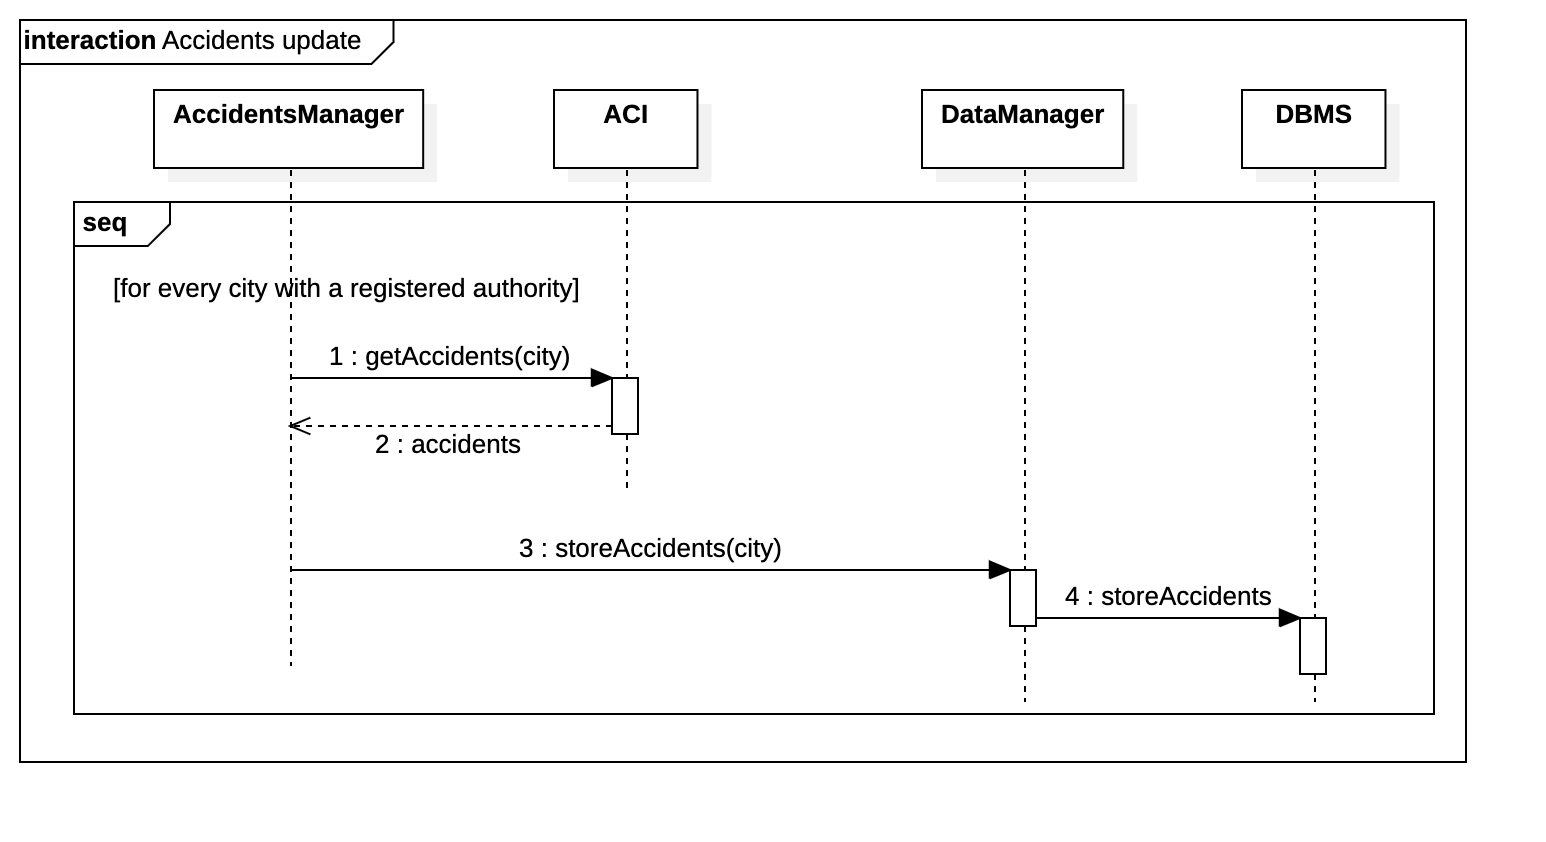
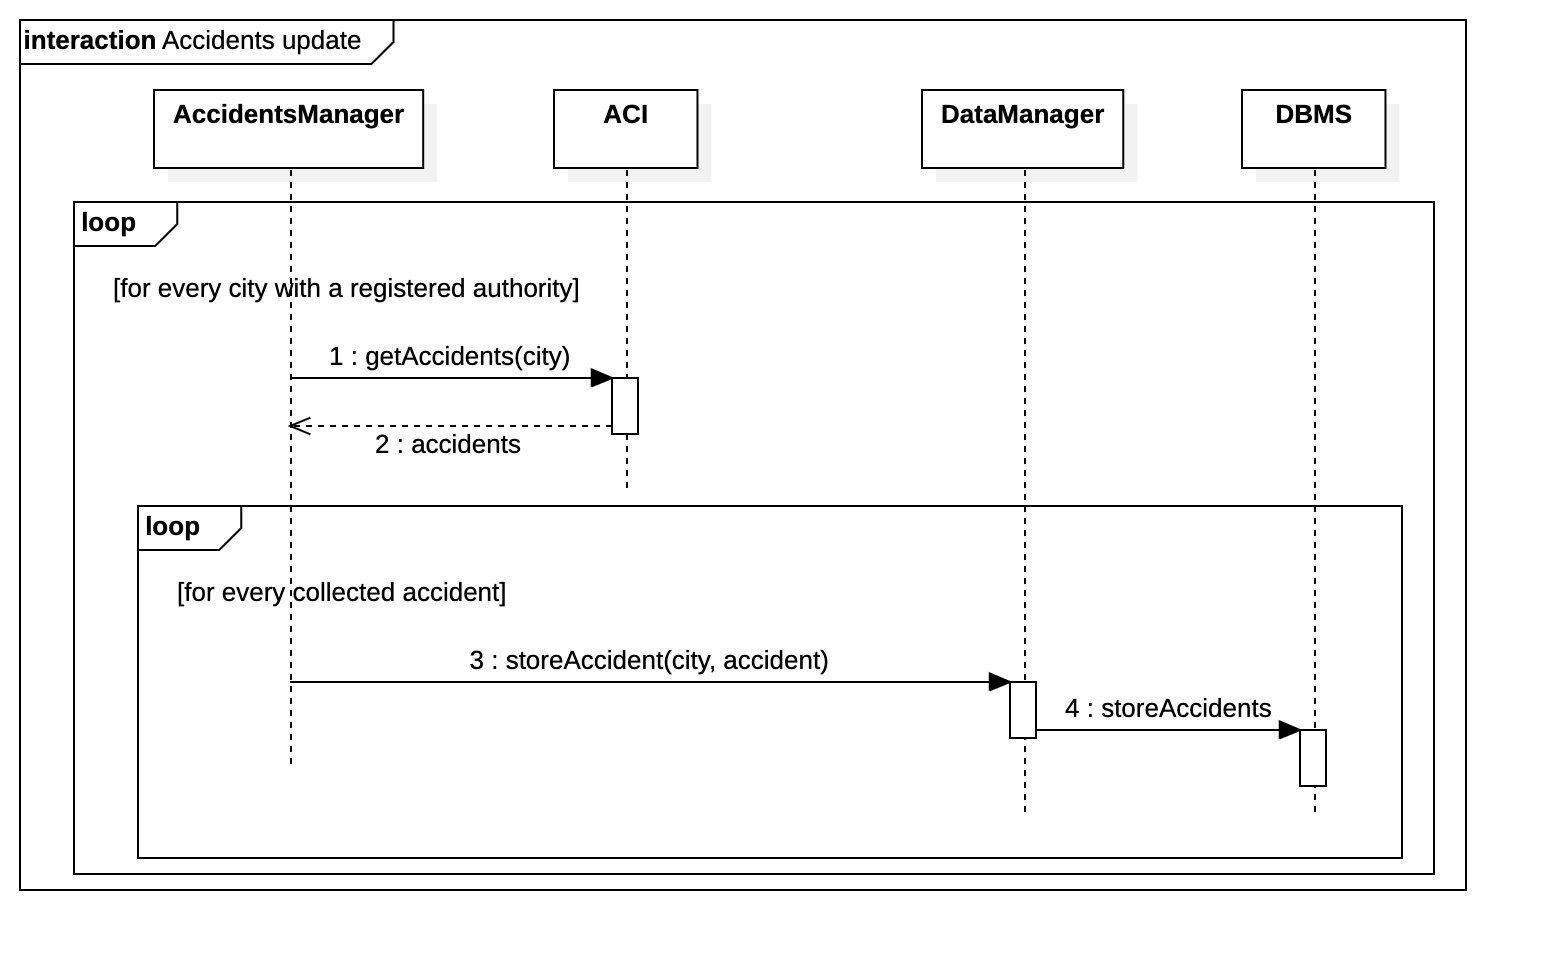
add runtime view description need image refactor

diff --git a/dd/Files/dd_ARCHITECTURALDESIGN.tex b/dd/Files/dd_ARCHITECTURALDESIGN.tex
@@ -591,6 +591,127 @@
 	\subsection[Runtime View]{\hyperlink{toc}{Runtime View}}
 		\label{sec:runtimeView}
 		
+		In this section we are going to present the most important runtime views of the interactions between the customers and SafeStreets. All the methods used in the following diagrams will be precisely described in the next section (\ref{sec:componentInterfaces}) where each of them will be mapped with the respective interface that realizes it.\\
+		
+		The \emph{Runtime View Diagrams} of this section are presented first for the \textbf{users} and \textbf{authorities}, then for the common functionalities and lastly two critical views are shown in order to present how the components related to the safety calculus work in order to provide this functionality.
+		
+		\subsubsection[User]{\hyperlink{toc}{User}}
+			\label{sec:userRuntimeView}
+			
+			\begin{itemize}
+				\item \textbf{Login:} In this sequence diagram (\autoref{fig:loginRuntime}), the process of user login is shown. The authority login is not shown in the runtime view section, since it is basically the same. In fact, both users and authorities log in with a username and a password. This process is actually quite simple: the UserApp asks the server to log in by passing username and password. ClientHandler receives the request and forwards it to the AccessManager component, that will ask DataManager for a simple query in the database. If no user with that username is found, an error message is given to the client, otherwise the check of the password will be performed. If the password inserted and sent by the user is the same as the one retrieved from the database, the login will be considered as logged in and then informed.
+				
+				\begin{figure}[h!]
+					\centering
+					\includegraphics[scale=0.16]{/diagrams/sequence/login.png}
+					\caption{\label{fig:loginRuntime} Login Runtime View}
+				\end{figure}
+			
+				\item \textbf{Registration:} This sequence diagram (\autoref{fig:userRegistrationRuntime}) pictures the interaction through which a user registers to SafeStreets. After UserApp has asked him all the registration data (username, password, and other information), it will hand them to the server, hidden into a User object. ClientHandler will forward the request to AccessManager, that is the same component that manages the login interactions. AccessManager will first check if there is an already existing user who registered with that same username and in case will send back an error. If not, it will ask DataManager to store the user information into the relative database.
+				
+				\begin{figure}[h!]
+					\centering
+					\includegraphics[scale=0.16]{/diagrams/sequence/userRegistration.png}
+					\caption{\label{fig:userRegistrationRuntime} User Registration Runtime View}
+				\end{figure}
+			
+				\item \textbf{Report Violation:} Here (\autoref{fig:reportViolationRuntime}), it is shown how a violation is reported by users to the system. UserApp sends all the information contained in a Violation object (pictures, location, ...). ClientHandler forwards the call to ReportManager, the component designed to handle the reports. It will indeed ask IRI for the plate number, providing it with the pictures sent by the user. Then, it will ask MapManager for the name of the street of the violation. MapManager of course needs to ask the external MI to accomplish this, and it only needs the provided location. When all the information is gathered, the report is ready to be stored into the database. To do so, ReportManager will ask DataManager to interact with the DBMS and update the related table(s).
+				
+				\begin{figure}[h!]
+					\centering
+					\includegraphics[scale=0.16]{/diagrams/sequence/reportViolation.png}
+					\caption{\label{fig:reportViolationRuntime} Report Violation Runtime View}
+				\end{figure}
+			\end{itemize}
+		
+		\subsubsection[Authority]{\hyperlink{toc}{Authority}}
+			\label{sec:authorityRuntimeView}
+			
+			\begin{itemize}
+				\item \textbf{Registration:} It is now described (\autoref{fig:authorityRegistrationRuntime}) the process through which an authority registers to SafeStreets. This is a little bit more complicated process with respect to the user one, because the system requires the authority to be real and recognized. The assumption here is that there's a completely secure PEC address assigning mechanism. The ClientHandler forwards the WebApp request to AccessManager. The request contains of course all the necessary information for the registration. AccessManager will then check whether there is already an authority registered for the city contained in the registration request. If a authority already exists, the request is rejected and an error message is sent back to the client, otherwise AccessManager will check whether the specified PEC address actually corresponds to the authority of the city contained in the request. This is to avoid that an authority registers for a different city. To do that, it needs to ask the Authority Common Interface that is external with respect to SafeStreets. If the addresses do not match, an error message is sent to the client and the procedure is aborted. If the specified address is correct for that city, SafeStreets needs now to verify that the actual person that is making the request through the WebApp is able to access the PEC address and actually read the received emails. In order to do that, AccessManager generates a code that will be sent by PEC through EmailAPI. AccessManager now waits for the authority to insert, through the WebApp, the received code. Then, it will check that the generated code and the inserted one coincide. If they do not coincide, an error is sent to the WebApp and the registration is aborted. If the inserted code is correct, AccessManager will ask DataManager to store the information into the database.
+				
+				\begin{figure}[h!]
+					\centering
+					\includegraphics[scale=0.16]{/diagrams/sequence/authorityRegistration.png}
+					\caption{\label{fig:authorityRegistrationRuntime} Authority Registration Runtime View}
+				\end{figure}
+			
+				\item \textbf{Check Unread Reports:} In this sequence diagram (\autoref{fig:unreadReportsRuntime}), it is shown how an authority is able to retrieve all the unread reports sent by users to SafeStreets. The WebApp will ask ClientHandler to forward the request to the right component, that in this case is again QueryManager. In fact, its job is to call the right method of DataManager to obtain only the reports that have the "read" flag set to false. DataManager will as usual execute the actual query into the DBMS. Finally, QueryManager will send the result back to the WebApp.
+				
+				\begin{figure}[h!]
+					\centering
+					\includegraphics[scale=0.16]{/diagrams/sequence/unreadReports.png}
+					\caption{\label{fig:unreadReportsRuntime} Check Unread Reports Runtime View}
+				\end{figure}
+			
+				\item \textbf{Find Reports:} Here (\autoref{fig:findReportsRuntime}) it is described the interactions through the components when the authority asks for some past reports applying some filters. The request is made by the WebApp and is forwarded to QueryManager by ClientHandler. After having checked if the specified filters are correct and eventually returning an error to the WebApp, QueryManager will ask DataManager to interact with the DBMS and execute the query that will return all the reports located in the authority’s city that match the specified filters.
+				
+				\begin{figure}[h!]
+					\centering
+					\includegraphics[scale=0.16]{/diagrams/sequence/findReports.png}
+					\caption{\label{fig:findReportsRuntime} Find Reports Runtime View}
+				\end{figure}
+			\end{itemize}
+		
+		\subsubsection[Common Functionalities]{\hyperlink{toc}{Common Functionalities}}
+			\label{sec:commonFunctionalitiesRuntime}
+			
+			\begin{itemize}
+				\item \textbf{Find Streets With Highest Number of Violations:} It is now shown (\autoref{fig:violationsFrequencyRuntime}) how a possible query for the streets with the highest number of violations is made. The filterList object represents all the filters that are selected by the user, like time slots and types of violation. These filters are widely described in the RASD. The component designed to handle these queries is of course QueryManager. It will check the correctness of all the used filters (e.g. at least a type of violation must be included). If some constraint is not fulfilled, an error is sent to the user, otherwise QueryManager will prepare the query and forward it to DataManager, that will actually execute it on the DBMS. The result is then back propagated through the involved components and to the UserApp.
+				
+				\begin{figure}[h!]
+					\centering
+					\includegraphics[scale=0.16]{/diagrams/sequence/violationsFrequency.png}
+					\caption{\label{fig:violationsFrequencyRuntime} Violations Frequency Runtime View}
+				\end{figure}
+			
+				\item \textbf{Find Dangerous Vehicles:} This interaction (\autoref{fig:dangerousVehiclesRuntime}) is basically the same as the previous one, thus it won't be explained again here. The only difference is that the query designed by QueryManager will be specific for finding the types of vehicle that made the most violations.
+				
+				\begin{figure}[h!]
+					\centering
+					\includegraphics[scale=0.16]{/diagrams/sequence/dangerousVehicles.png}
+					\caption{\label{fig:dangerousVehiclesRuntime} Dangerous Vehicles Runtime View}
+				\end{figure}
+			
+				\item \textbf{Find Unsafe Streets:} In this interaction both client and server processes are shown. The request made by the UserApp is forwarded by ClientHandler to QueryManager. Depending on the option selected by the user, three different methods could be called: the one with a city as input, the one with starting and ending points, or the one with a single street. In the first case, QueryManager will look for all the streets of the selected city in the DBMS, going through DataManager. In the second case, a path needs to be generated, thus QueryManager will ask MI through MapManager for a path, that will include a certain number of streets. In the last case, no action is required. Then, for all the gathered streets, QueryManager will search in the database for their safety, asking DataManager to execute the actual query. All this data is finally sent back to the UserApp again that will pass them to the "local" MapManager component, which will ask MapInterface for the generation of the map. The map will of course show the path calculated by the server and will colour the streets according to their safety, using the safety data handed by the server. The map will be finally shown to the user.
+				
+				\begin{figure}[h!]
+					\centering
+					\includegraphics[scale=0.16]{/diagrams/sequence/unsafeStreets.png}
+					\caption{\label{fig:unsafeStreetsRuntime} Unsafe Streets Runtime View}
+				\end{figure}
+			
+				\item \textbf{Fin Urgent Interventions:} This interaction (\autoref{fig:urgentInterventionsRuntime
+				}) is basically the same as "find streets with highest number of violations", thus it won't be explained again here. The only difference is that the query designed by QueryManager will be specific for urgent interventions.
+				
+				\begin{figure}[h!]
+					\centering
+					\includegraphics[scale=0.16]{/diagrams/sequence/urgentInterventions.png}
+					\caption{\label{fig:urgentInterventionsRuntime} Urgent Interventions Runtime View}
+				\end{figure}
+			\end{itemize}
+		
+		\subsubsection[Safety Manager]{\hyperlink{toc}{Safety Manager}}
+			\label{sec.safetyManagerRuntime}
+			
+			\begin{itemize}
+				\item \textbf{Update Safety:} This  (\autoref{fig:safetyUpdateRuntime}) is the description of the process of updating the safety estimation of every registered street. The component designed to do this operation is SafetyManager. It asks DataManager to get all the violations and accidents information from the DBMS. Then it will calculate the safety estimation as described in RASD. Finally, it will store this estimation in the database, so that it will be possible to retrieve always the most updated information without actually calculating it for every request that is made.
+				
+				\begin{figure}[h!]
+					\centering
+					\includegraphics[scale=0.16]{/diagrams/sequence/safetyUpdate.png}
+					\caption{\label{fig:safetyUpdateRuntime} Update Safety Runtime View}
+				\end{figure}
+			
+				\item \textbf{Update Accidents:} Here (\autoref{fig:accidentsUpdateRuntime}) it is described how SafeStreets uses the Authority Common Interface to retrieve data about accidents. For every city with a registered authority, AccidentsManager will ask ACI for these data and then will ask DataManager to store them into the database.
+				
+				\begin{figure}[h!]
+					\centering
+					\includegraphics[scale=0.16]{/diagrams/sequence/accidentsUpdate.png}
+					\caption{\label{fig:accidentsUpdateRuntime} Update Accidents Runtime View}
+				\end{figure}
+			\end{itemize}
+		
 	\subsection[Component Interfaces]{\hyperlink{toc}{Component Interfaces}}
 		\label{sec:componentInterfaces}
 		%todo all the APIs go here!
